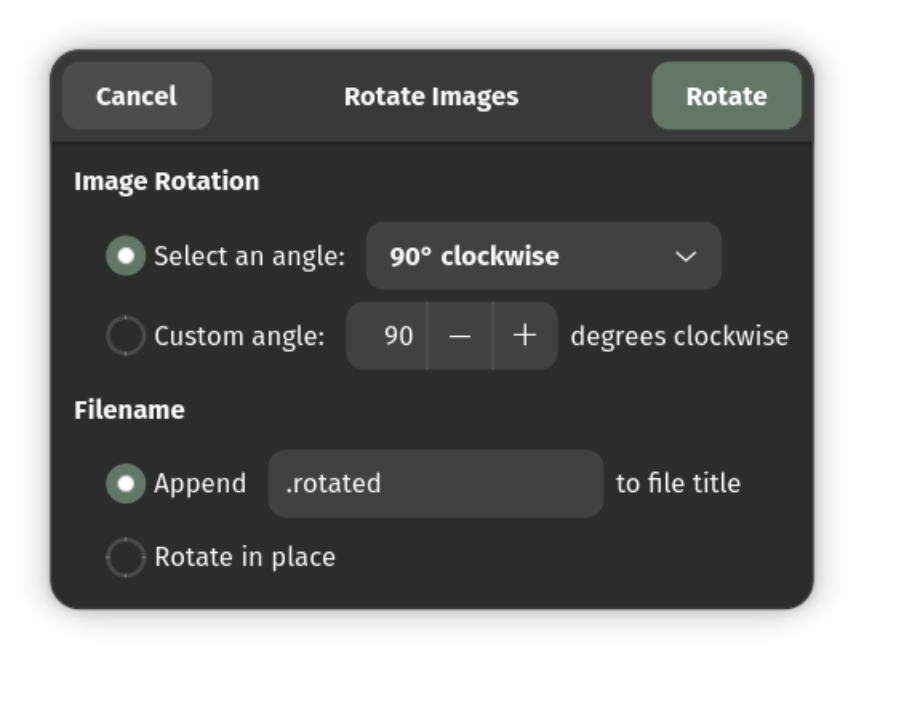
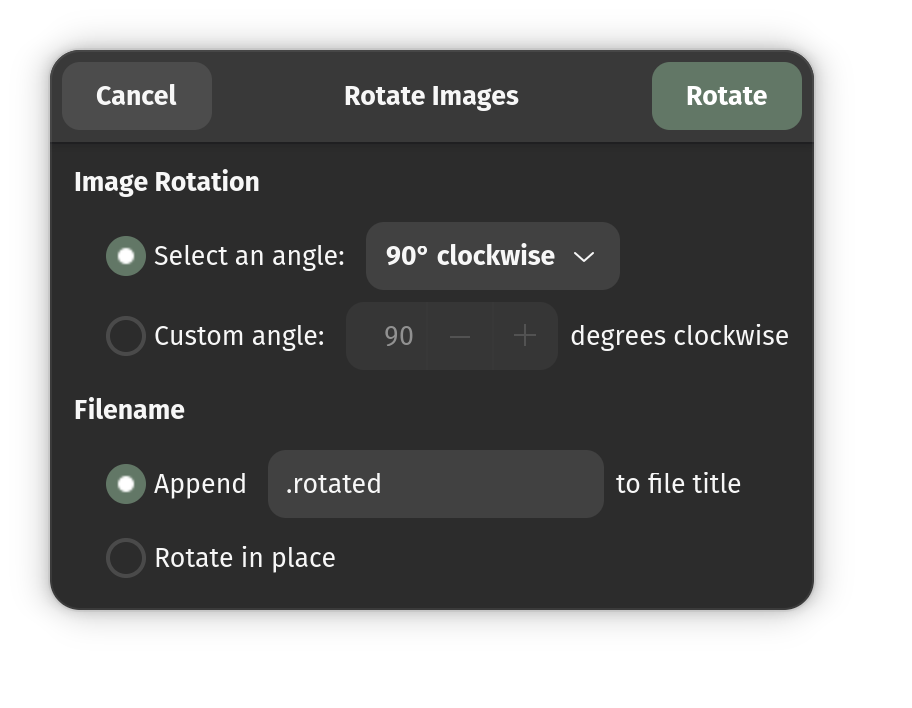
update README with all new features and add format changer screenshot

diff --git a/README.md b/README.md
@@ -1,13 +1,15 @@
 # Nautilus Image Converter (Enhanced)
 
-The **Nautilus-Image-Converter** extension allows you to resize and rotate images directly from the right-click context menu in the Nautilus (GNOME Files) file manager.
+The **Nautilus-Image-Converter** extension allows you to resize, rotate, and convert images between formats directly from the right-click context menu in the Nautilus (GNOME Files) file manager.
 
 This repository is an enhanced fork of the original extension, featuring new improvements to make image manipulation even easier for modern workflows.
 
 ## ✨ New in this Fork
-* **Target File Size Compression:** You can now compress and resize images to match a specific target file size (e.g., 500KB, 2MB). This is perfect for optimizing images for web uploads, email attachments, or strict size limits without having to guess the correct quality settings.
 
-
+* **🔄 Convert Image Format:** Convert images between **WebP, PNG, JPEG, AVIF, and GIF** formats with a single right-click. Optionally append a suffix to the new filename or delete the original after conversion.
+* **📦 Target File Size Compression/Upscaling:** Adjust images to match a specific target file size (e.g., 500KB, 2MB). Compresses larger files down by adjusting quality only (resolution is never downscaled), and optionally pads smaller files up with dummy bytes to hit the exact target — perfect for web uploads, email attachments, or portals with strict size limits. Uses `jpegoptim` for JPEG and `pngquant` for PNG when available, with ImageMagick as a fallback.
+* **📏 SI-Aligned Size Units:** Target size units use decimal base-1000 (KB/MB), matching GNOME/Nautilus file size display conventions.
+* **🎨 Modern GTK4 Widgets:** All dropdowns upgraded from legacy `GtkComboBoxText` to native `GtkDropDown`, fixing focus-stealing issues and aligning with modern GTK4 design.
 
 ## Core Features (from Original Project)
 
@@ -18,7 +20,9 @@ All the original features of the `nautilus-image-converter` are fully intact:
 * **Rotate Images:** Rotate 90°, 180°, or by a custom angle.
 * **In-Place or New File:** Choose to overwrite your original images or create new copies (e.g., `image.resized.jpg`).
 
-<img src="images/SS3.png" width="19%"> <img src="images/SS1.png" width="39%"> <img src="images/SS2.png" width="39%">
+<img src="images/SS3.png" width="19%"> <img src="images/SS1.png" width="39%">
+<br/>
+<img src="images/SS2.png" width="39%"> <img src="images/SS4.png" width="39%">
 
 
 ## 📥 Installation
@@ -27,11 +31,11 @@ To build and install the extension from source, run the following commands:
 
 ```bash
 # 1. Install dependencies (Ubuntu/Debian example)
-sudo apt install libgtk-4-dev libnautilus-extension4 libnautilus-extension-dev gettext jpegoptim meson ninja-build
+sudo apt install libgtk-4-dev libnautilus-extension4 libnautilus-extension-dev gettext jpegoptim meson ninja-build imagemagick pngquant
 
 # 2. Clone this repository
-git clone https://github.com/Ameen-Sha-Cheerangan/nautilus-image-converter.git
-cd nautilus-image-converter
+git clone https://github.com/Ameen-Sha-Cheerangan/nautilus-image-converter-gnome43plus.git
+cd nautilus-image-converter-gnome43plus
 
 # 3. Build the project
 meson build
@@ -57,9 +61,9 @@ sudo ninja uninstall -C build
 
 ## 🕰 Older GNOME Versions (GNOME < 43)
 
-Are you using an older version of GNOME (e.g., Ubuntu 22.04 or earlier)? This repository requires GNOME 43+ and GTK4. 
+Are you using an older version of GNOME (e.g., Ubuntu 22.04 or earlier)? This repository requires GNOME 43+ and GTK4.
 
-For older systems, please use the **[Legacy Version](https://github.com/Ameen-Sha-Cheerangan/nautilus-image-converter-legacy)** which also includes the new Target File Size feature!
+For older systems, please use the **[Legacy Version](https://github.com/Ameen-Sha-Cheerangan/nautilus-image-converter-legacy)** which includes the Target File Size feature, but some features might be missing (note: Format Conversion is only available in this GTK4 version).
 
 ## 🤝 Contributing
 
@@ -68,7 +72,6 @@ Patches, bug reports, and feature requests are always welcome! Feel free to open
 ## ⭐ Show Your Support
 
 If you found this extension helpful, please consider giving this repository a star on GitHub! It helps others find the project.
-
 
 ## ☕ Support the Developer
 
